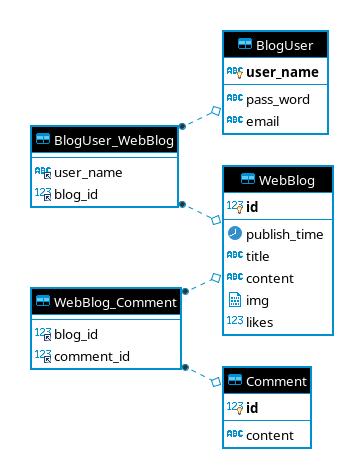
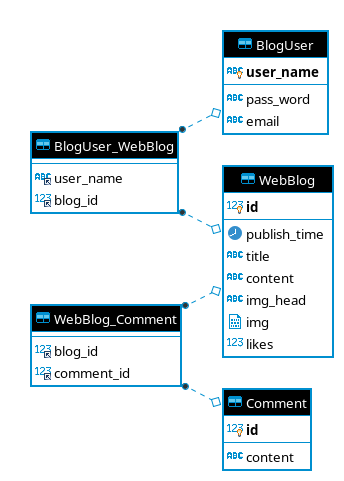
实现点赞功能

diff --git a/src/main/resources/static/index.html b/src/main/resources/static/index.html
@@ -114,9 +114,9 @@
 		<div class="container py-xl-5 py-lg-3">
 			<div class="blog-left-content" id="blogs">
 				<!-- 一篇博客开始 -->
-				<div class="creatives-grid" v-for="blog in blogs">
+				<div class="creatives-grid" v-for="(blog, i) in blogs">
 					<div>
-						<img src="#" alt=" " class="img-fluid" />
+						<img v-bind:src="blog.imgHead + blog.img" alt="" class="img-fluid" />
 					</div>
 					<div class="p-mask img-thumbnail">
 						<h4><a href="javascript:void(0);">{{blog.title}}</a></h4>
@@ -126,7 +126,7 @@
 						<!-- 点赞、评论 -->
 						<div class="mt-4">
 							<div class="input-group mb-3">
-								<a id="thumbs-up" href="javascript:void(0);">
+								<a id="thumbs-up" href="javascript:void(0);" v-on:click.once="addlikes(i, blog.id)">
 									<span class="text">
 										<svg t="1568705992128" class="icon" viewBox="0 0 1024 1024" version="1.1" xmlns="http://www.w3.org/2000/svg" p-id="17031" width="200" height="200">
 											<path d="M724.928 976.384H339.712a143.04 143.04 0 0 1-141.888-131.008L165.76 444.544a141.44 141.44 0 0 1 33.536-103.616 141.696 141.696 0 0 1 108.288-50.048h39.296c129.856 0 164.16-107.392 164.16-164.224C511.04 63.552 560.832 16 626.944 16c44.992 0 87.296 22.4 113.152 59.904 29.76 43.072 48.576 120.896 20.992 214.976h88.256a142.528 142.528 0 0 1 140.544 164.992l-54.656 341.056a211.968 211.968 0 0 1-210.304 179.456z m-417.28-589.504c-16 1.152-27.264 6.848-35.264 16.32a46.208 46.208 0 0 0-10.944 33.728l32.064 400.832c1.92 23.872 22.208 42.624 46.208 42.624h385.216a116.48 116.48 0 0 0 115.584-98.56l54.656-341.312a46.4 46.4 0 0 0-45.76-53.632h-159.168a48.128 48.128 0 0 1-42.752-69.952c48.064-93.44 29.952-162.88 13.632-186.56a41.92 41.92 0 0 0-34.112-18.368c-13.184 0-19.904 4.928-19.904 14.656C607.104 256 517.76 386.88 346.944 386.88h-39.296zM111.104 976.384a48.064 48.064 0 0 1-47.808-44.16l-47.168-589.44a48 48 0 0 1 44.032-51.712 48.512 48.512 0 0 1 51.648 44.032l47.168 589.44a48.064 48.064 0 0 1-44.032 51.712l-3.84 0.128z" fill="" p-id="17032"></path>
@@ -201,26 +201,56 @@
 
 	<!-- Vue -->
 	<script src="https://cdn.jsdelivr.net/npm/vue/dist/vue.js"></script>
+    <!-- axios -->
+    <script src="https://cdn.jsdelivr.net/npm/axios/dist/axios.min.js"></script>
 	<!-- 自己写的 -->
 	<script>
 		var thumbs = new Vue({
 			el: "#blogs",
 			data: {
 				blogs: [			// 所有博客
-					{
-						title: "标题",
-						publish_time: "Feb 20, 2019",
-						content: "内容：Neque porro est Lorem ipsum dolor sit amet,sed diam nonumy eirmod tempor. no sea takimata sanctus est Loremipsum.Neque porro est Lorem ipsum dolor sit amet,sed diam nonumy eirmod tempor. no sea takimata sanctus est Loremipsum.Neque porro est Lorem ipsum dolor sit amet,sed diam nonumy eirmod tempor. no sea takimata sanctus est Loremipsum.",
-						likes: 51,
-						comment: ""
-					}
 				],
+				comment: ""
 			},
 			methods: {
-				
+				getBlogs: function() {	// 获取所有博客
+					axios({
+						method: "GET",
+						url: "/api/blogs"
+					})
+					.then(function(response) {
+						var data = response.data
+						data.blogs.forEach(item => {
+							if (item.imgHead === null || item.img === null)
+							{
+								item.img = ""
+								item.imgHead = ""
+							}
+						});
+						thumbs.blogs = data.blogs
+					})
+					.catch(function(error) {
+						console.log(error)
+					})
+				},
+				addlikes: function(i, blogId) {
+					axios({
+						method: "PUT",
+						url: "api/add/likes",
+						data: {
+							"blogId": blogId
+						}
+					})
+					.then(function(response) {
+						thumbs.blogs[i].likes ++
+					})
+					.catch(function(error) {
+						console.log(error)
+					})
+				}
 			},
-			mounted: function() {
-				// 页面加载时调用 TODO
+			mounted: function() {		// 给博客点赞
+				this.getBlogs()
 			}
 		})
 	</script>

diff --git a/src/main/java/cn/ablocker/FoodBlog/controller/BlogController.java b/src/main/java/cn/ablocker/FoodBlog/controller/BlogController.java
@@ -12,6 +12,7 @@ import org.springframework.context.ApplicationContext;
 import org.springframework.web.bind.annotation.GetMapping;
 import org.springframework.web.bind.annotation.PathVariable;
 import org.springframework.web.bind.annotation.PostMapping;
+import org.springframework.web.bind.annotation.PutMapping;
 import org.springframework.web.bind.annotation.RequestBody;
 import org.springframework.web.bind.annotation.RestController;
 
@@ -20,6 +21,7 @@ import cn.ablocker.FoodBlog.bussiness.BlogBussiness;
 import cn.ablocker.FoodBlog.bussiness.LoginBussiness;
 import cn.ablocker.FoodBlog.entity.WebBlog;
 import cn.ablocker.FoodBlog.response.BlogsResponse;
+import cn.ablocker.FoodBlog.response.CommonResponse;
 
 @RestController
 public class BlogController
@@ -55,10 +57,19 @@ public class BlogController
         String userName = loginBussiness.getUserName(sessionId);
         String title = blogValue.get("title");
         String content = blogValue.get("content");
+        String imgHead = blogValue.get("imgHead");
         String img = blogValue.get("img");
-        WebBlog blog = blogBussiness.addBlog(userName, title, content, img);
+        WebBlog blog = blogBussiness.addBlog(userName, title, content, imgHead, img);
         List<WebBlog> blogs = new ArrayList<>();
         blogs.add(blog);
         return (BlogsResponse) context.getBean(BLOGS_RESPONSE_BEAN, new Object[] {blogs});
+    }
+
+    @LoginNeeded
+    @PutMapping(value = "api/add/likes", produces = "application/json")
+    public CommonResponse addAnLikes(@RequestBody Map<String, Integer> map, HttpServletRequest request, HttpServletResponse response)
+    {
+        blogBussiness.addAnLikes(map.get("blogId"));
+        return context.getBean("likesResponse", CommonResponse.class);
     }
 }

diff --git a/src/main/java/cn/ablocker/FoodBlog/controller/LoginController.java b/src/main/java/cn/ablocker/FoodBlog/controller/LoginController.java
@@ -14,7 +14,7 @@ import org.springframework.web.servlet.ModelAndView;
 import cn.ablocker.FoodBlog.annotation.UnLoginNeeded;
 import cn.ablocker.FoodBlog.bussiness.LoginBussiness;
 import cn.ablocker.FoodBlog.entity.BlogUser;
-import cn.ablocker.FoodBlog.response.LoginResponse;
+import cn.ablocker.FoodBlog.response.CommonResponse;
 
 @RestController
 public class LoginController
@@ -32,13 +32,13 @@ public class LoginController
 
 	@UnLoginNeeded
 	@PostMapping(value = "/api/login", produces = "application/json")
-	public LoginResponse login(@RequestBody BlogUser blogUser, HttpServletRequest request, HttpServletResponse response)
+	public CommonResponse login(@RequestBody BlogUser blogUser, HttpServletRequest request, HttpServletResponse response)
 	{
 		String sessionId = request.getSession().getId();
 		blogUser = loginBussiness.login(blogUser.getUserName(), blogUser.getPassWord(), sessionId);
 		if (blogUser != null)
-			return context.getBean("loginSuccessResponse", LoginResponse.class);
+			return context.getBean("loginSuccessResponse", CommonResponse.class);
 		else
-			return context.getBean("loginFailResponse", LoginResponse.class);
+			return context.getBean("loginFailResponse", CommonResponse.class);
 	}
 }

diff --git a/src/main/java/cn/ablocker/FoodBlog/dao/WebBlogDAO.java b/src/main/java/cn/ablocker/FoodBlog/dao/WebBlogDAO.java
@@ -24,9 +24,9 @@ public class WebBlogDAO
     @Transactional
     public int addAnBlog(String userName, WebBlog blog)
     {
-        String sql1 = "insert into WebBlog(publish_time, title, content, img) values(current_timestamp(), ?, ?, ?)";
+        String sql1 = "insert into WebBlog(publish_time, title, content, img_head, img) values(current_timestamp(), ?, ?, ?, ?)";
         String sql2 = "insert into BlogUser_WebBlog(user_name, blog_id) values(?, ?)";
-        jdbcTemplate.update(sql1, blog.getTitle(), blog.getContent(), blog.getImg());
+        jdbcTemplate.update(sql1, blog.getTitle(), blog.getContent(), blog.getImgHead(), blog.getImg());
         int blogId = jdbcTemplate.queryForObject("select LAST_INSERT_ID()", Integer.class);
         jdbcTemplate.update(sql2, userName, blogId);
         return blogId;
@@ -42,6 +42,14 @@ public class WebBlogDAO
         catch (DataAccessException e) {
             return null;
         }
+    }
+
+    // 更新博客的 likes
+    @Transactional
+    public void updataLikes(int likes, int blogId)
+    {
+        String sql = "update WebBlog set likes=? where id=?";
+        jdbcTemplate.update(sql, likes, blogId);
     }
 
     // 查找所有博客

diff --git a/src/main/java/cn/ablocker/FoodBlog/config/LoginResponseConfig.java b/src/main/java/cn/ablocker/FoodBlog/config/LoginResponseConfig.java
@@ -4,7 +4,7 @@ import org.springframework.context.annotation.Bean;
 import org.springframework.context.annotation.Configuration;
 import org.springframework.context.annotation.Scope;
 
-import cn.ablocker.FoodBlog.response.LoginResponse;
+import cn.ablocker.FoodBlog.response.CommonResponse;
 
 @Configuration
 public class LoginResponseConfig
@@ -12,9 +12,9 @@ public class LoginResponseConfig
     // 登录成功的响应
     @Bean
     @Scope("prototype")
-    public LoginResponse loginSuccessResponse()
+    public CommonResponse loginSuccessResponse()
     {
-        LoginResponse response = new LoginResponse();
+        CommonResponse response = new CommonResponse();
         response.setStatus(201);
         response.setSuccess(true);
         return response;
@@ -23,9 +23,9 @@ public class LoginResponseConfig
     // 登陆失败的响应
     @Bean
     @Scope("prototype")
-    public LoginResponse loginFailResponse()
+    public CommonResponse loginFailResponse()
     {
-        LoginResponse response = new LoginResponse();
+        CommonResponse response = new CommonResponse();
         response.setStatus(403);
         response.setSuccess(false);
         return response;

diff --git a/src/main/java/cn/ablocker/FoodBlog/bussiness/BlogBussiness.java b/src/main/java/cn/ablocker/FoodBlog/bussiness/BlogBussiness.java
@@ -28,16 +28,23 @@ public class BlogBussiness
     }
 
     // 增加一篇博客，并返回这篇博客
-    public WebBlog addBlog(String userName, String title, String content, String img)
+    public WebBlog addBlog(String userName, String title, String content, String imgHead, String img)
     {
         WebBlog blog = new WebBlog();
         blog.setTitle(title);
         blog.setContent(content);
+        blog.setImgHead(imgHead);
         blog.setImg(ImgHelper.decodeFile(img));
         int blogId = webBlogDAO.addAnBlog(userName, blog);
         if ( blogId != 0)
             return webBlogDAO.findAnBlog(blogId);
         else
             return null;
+    }
+
+    public void addAnLikes(int blogId)
+    {
+        WebBlog blog = webBlogDAO.findAnBlog(blogId);
+        webBlogDAO.updataLikes(blog.getLikes() + 1, blogId);
     }
 }

diff --git a/src/main/java/cn/ablocker/FoodBlog/config/BlogsResponseConfig.java b/src/main/java/cn/ablocker/FoodBlog/config/BlogsResponseConfig.java
@@ -8,6 +8,7 @@ import org.springframework.context.annotation.Scope;
 
 import cn.ablocker.FoodBlog.entity.WebBlog;
 import cn.ablocker.FoodBlog.response.BlogsResponse;
+import cn.ablocker.FoodBlog.response.CommonResponse;
 
 @Configuration
 public class BlogsResponseConfig
@@ -20,6 +21,17 @@ public class BlogsResponseConfig
         BlogsResponse response = new BlogsResponse();
         response.setStatus(200);
         response.setBlogs(blogs);
+        return response;
+    }
+
+    // 点赞成功的响应
+    @Bean
+    @Scope("prototype")
+    CommonResponse likesResponse()
+    {
+        CommonResponse response = new CommonResponse();
+        response.setStatus(201);
+        response.setSuccess(true);
         return response;
     }
 }

diff --git a/src/main/java/cn/ablocker/FoodBlog/entity/WebBlog.java b/src/main/java/cn/ablocker/FoodBlog/entity/WebBlog.java
@@ -8,6 +8,7 @@ public class WebBlog
     private Timestamp publishTime;  // 发布博客的时间
     private String title;           // 标题
     private String content;         // 文字内容
+    private String imgHead;         // 图片头信息
     private byte[] img;             // 图片
     private int likes;              // 点赞数
 
@@ -49,6 +50,16 @@ public class WebBlog
     public void setContent(String content)
     {
         this.content = content;
+    }
+
+    public String getImgHead()
+    {
+        return imgHead;
+    }
+
+    public void setImgHead(String imgHead)
+    {
+        this.imgHead = imgHead;
     }
 
     public byte[] getImg()

diff --git a/src/main/java/cn/ablocker/FoodBlog/response/CommonResponse.java b/src/main/java/cn/ablocker/FoodBlog/response/CommonResponse.java
@@ -1,6 +1,6 @@
 package cn.ablocker.FoodBlog.response;
 
-public class LoginResponse
+public class CommonResponse
 {
     private int status;         // 请求状态
     private boolean success;    // 是否登陆成功
